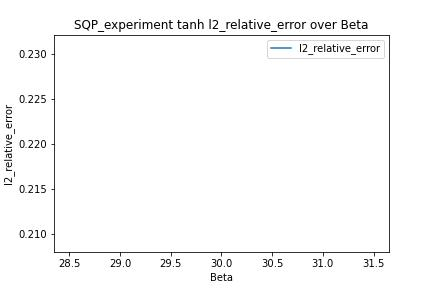
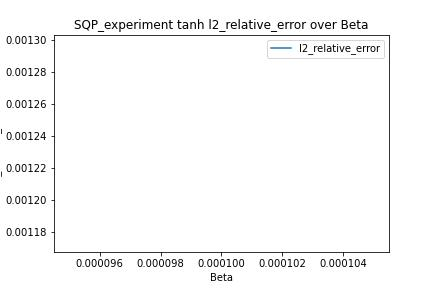
current

diff --git a/pde_cons_opt_code/main1.py b/pde_cons_opt_code/main1.py
@@ -38,7 +38,7 @@ from multiprocessing import Pool
 
 #######################################config for data#######################################
 # beta_list = [10**-4, 30]
-beta_list = [30]
+beta_list = [10**-4]
 N=100
 M=100
 data_key_num = 1000
@@ -64,7 +64,8 @@ eval_dataloader = DataLoader(Data=eval_Datas)
 ####################################### config for NN #######################################
 NN_key_num = 345
 key = random.PRNGKey(NN_key_num)
-features = [10, 10, 10, 10, 1]
+# features = [10, 10, 10, 10, 1]
+features = [10, 10, 1] # 搭配 SQP_num_iter = 100， hessian_param = 0.6 # 0.6最好， init_stepsize = 1.0， line_search_tol = 0.001， line_search_max_iter = 30， line_search_condition = "strong-wolfe" ，line_search_decrease_factor = 0.8
 # features = [2, 3, 1]
 ####################################### config for NN #######################################
 
@@ -83,7 +84,7 @@ alpha = 150 # for New_Augmented_Lag_experiment
 
 
 ####################################### config for Adam #######################################
-uncons_optim_num_echos = 3000
+uncons_optim_num_echos = 2000
 uncons_optim_learning_rate = 0.01
 cons_violation = 10 # threshold for updating penalty param
 ####################################### config for Adam #######################################
@@ -96,11 +97,11 @@ visual = Visualization(current_dir)
 
 ####################################### config for SQP #######################################
 qp = EqualityConstrainedQP()
-SQP_num_iter = 500
-hessian_param = 1.0
+SQP_num_iter = 100
+hessian_param = 0.6 # 0.6最好
 init_stepsize = 1.0
 line_search_tol = 0.001
-line_search_max_iter = 100
+line_search_max_iter = 30
 line_search_condition = "armijo"  # armijo, goldstein, strong-wolfe or wolfe.
 line_search_decrease_factor = 0.8
 group_labels = list(range(1,2*M+1)) * 2
@@ -121,7 +122,7 @@ group_labels = list(range(1,2*M+1)) * 2
 #                     'New_Augmented_Lag_experiment',\  #问题
 #                     'Fletcher_Penalty_experiment', \  #问题
 #                     'SQP_experiment']:
-for experiment in ['SQP_experiment']:
+for experiment in ['PINN_experiment']:
 
     # for activation_input in ['sin', \
     #                         'tanh', \
